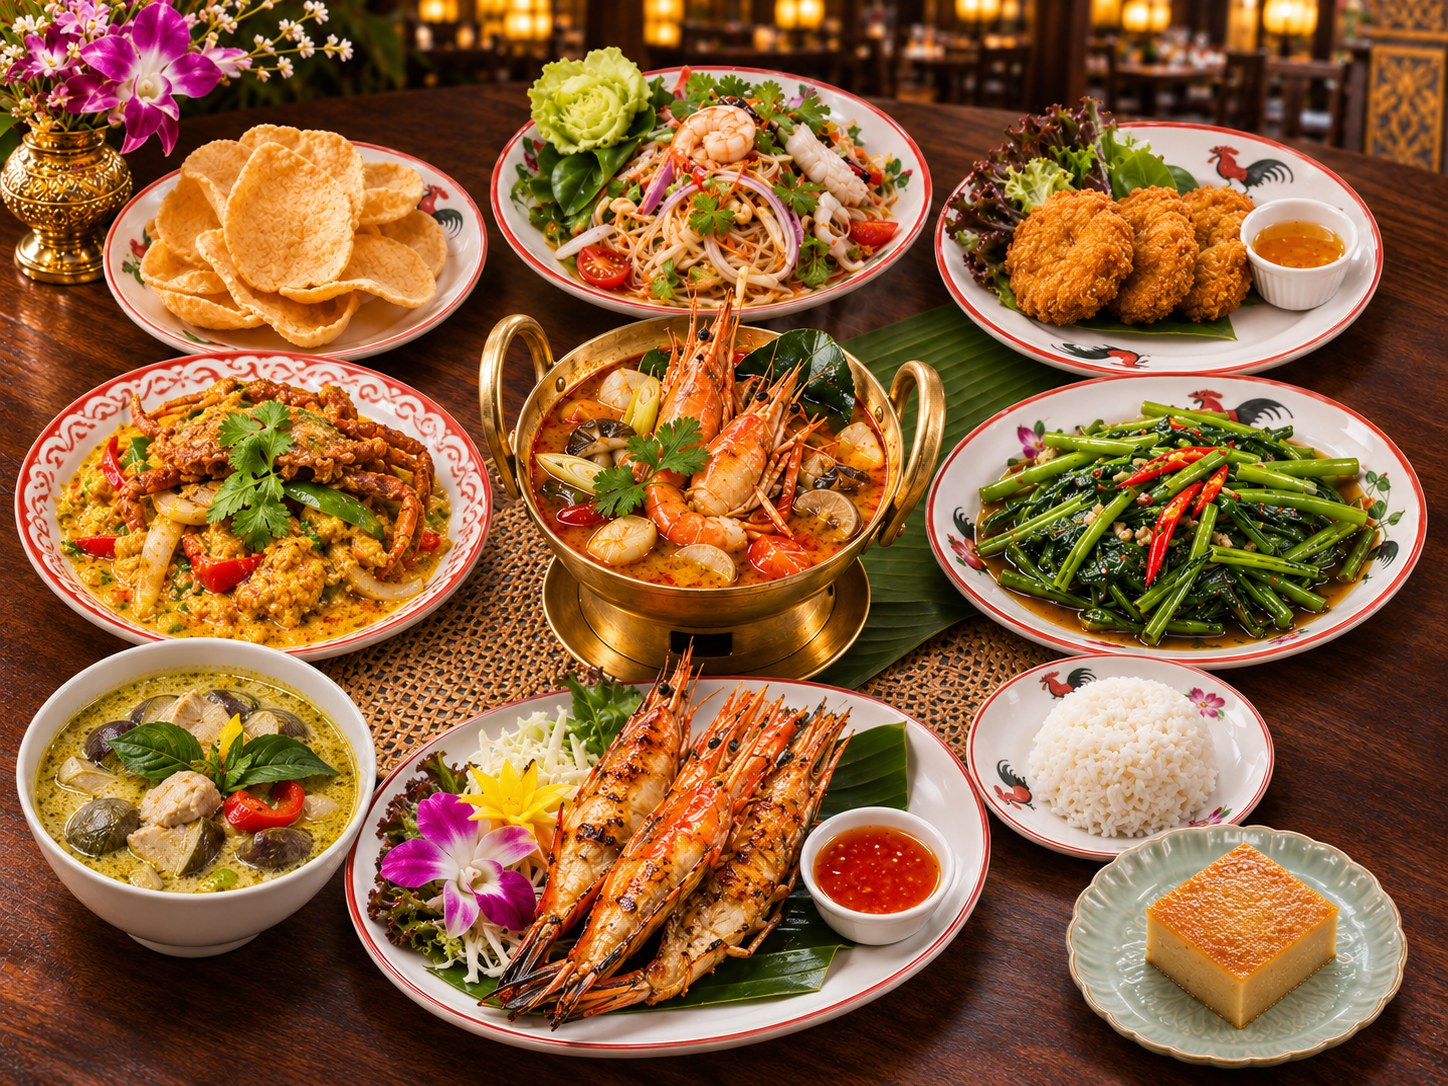
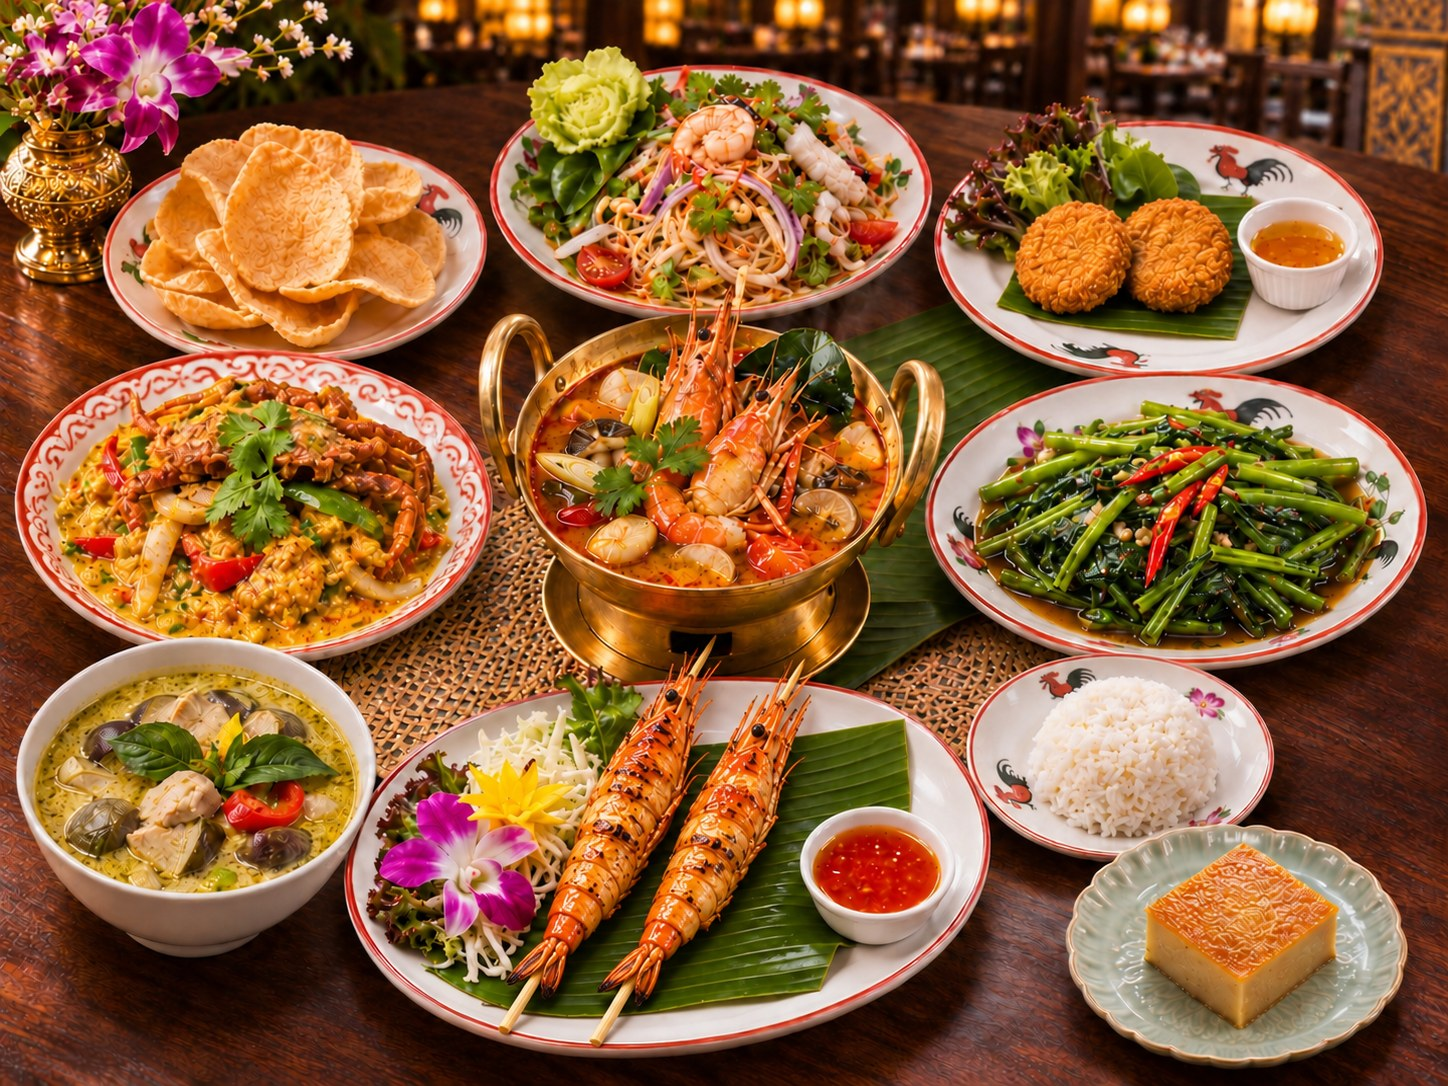
Add files via upload

diff --git a/data/menu.ts b/data/menu.ts
@@ -3,7 +3,6 @@ import type { MenuCategoryId, MenuItem } from "@/types/menu";
 // Category order controls the order tabs/sections render in on the Menu page.
 export const menuCategories: { id: MenuCategoryId; nameJP: string; nameTH: string }[] = [
   { id: "lunch", nameJP: "ランチ（月〜金）", nameTH: "lunch (จันทร์-ศุกร์)" },
-  { id: "courses", nameJP: "コース", nameTH: "คอร์ส" },
   { id: "friedSnacks", nameJP: "揚げ物・おつまみ", nameTH: "ของทอด/ของกินเล่น" },
   { id: "salads", nameJP: "サラダ", nameTH: "สลัด" },
   { id: "soup", nameJP: "スープ", nameTH: "ซุป" },
@@ -14,6 +13,7 @@ export const menuCategories: { id: MenuCategoryId; nameJP: string; nameTH: strin
   { id: "desserts", nameJP: "デザート", nameTH: "ขนมหวาน" },
   { id: "streetFoodSet", nameJP: "タイ屋台フードセット", nameTH: "เซ็ตสตรีทฟู้ด" },
   { id: "kidsSet", nameJP: "お子様セット", nameTH: "เมนูเด็ก" },
+  { id: "courses", nameJP: "コース", nameTH: "คอร์ส" },
 ];
 
 /**
@@ -241,7 +241,7 @@ export const menuItems: MenuItem[] = [
     category: "friedSnacks",
     spicyLevel: 0,
     available: true,
-    badge: "NEW",
+
   },
   {
     id: "fried-wonton-egg",
@@ -253,7 +253,7 @@ export const menuItems: MenuItem[] = [
     category: "friedSnacks",
     spicyLevel: 0,
     available: true,
-    badge: "NEW",
+
   },
 
   // ---------------------------------------------------------------------
@@ -1475,7 +1475,7 @@ export const menuItems: MenuItem[] = [
     category: "streetFoodSet",
     spicyLevel: 0,
     available: true,
-    badge: "NEW",
+
   },
   {
     id: "kids-set",
@@ -1528,15 +1528,15 @@ export const menuItems: MenuItem[] = [
     "category": "courses",
     "spicyLevel": 1,
     "available": true,
-    "badge": "NEW"
+
   },
   {
     "id": "course-boathong-special",
     "nameJP": "W2 ボアトウンスペシャルコース（全10品）",
     "nameTH": "W2 คอร์สพิเศษบัวทอง (10 อย่าง)",
     "description": {
-      "jp": "海鮮料理を贅沢に味わう全10品。大海老のグリル、ソフトシェルクラブのカレー炒め、海老のすり身揚げ、鶏肉のグリーンカレーを楽しめる特別なコースです。",
-      "th": "คอร์สพิเศษ 10 อย่างสำหรับมื้อสังสรรค์ จัดเต็มด้วยกุ้งแม่น้ำเผา ปูนิ่มผัดผงกะหรี่ ทอดมันกุ้ง ต้มยำกุ้ง และแกงเขียวหวานไก่ เสิร์ฟพร้อมข้าวหอมมะลิและขนมไทย"
+      "jp": "海鮮料理を贅沢に味わう全10品。大海老の串焼き、ソフトシェルクラブのカレー炒め、海老のすり身揚げ、鶏肉のグリーンカレーを楽しめる特別なコースです。",
+      "th": "คอร์สพิเศษ 10 อย่างสำหรับมื้อสังสรรค์ จัดเต็มด้วยกุ้งแม่น้ำเผาเสียบไม้ ปูนิ่มผัดผงกะหรี่ ทอดมันกุ้ง ต้มยำกุ้ง และแกงเขียวหวานไก่ เสิร์ฟพร้อมข้าวหอมมะลิและขนมไทย"
     },
     "courseDishes": {
       "jp": [
@@ -1544,7 +1544,7 @@ export const menuItems: MenuItem[] = [
         "海鮮ヤムウンセン",
         "海老のすり身揚げ",
         "トムヤムクン",
-        "大海老のグリル",
+        "大海老の串焼き",
         "空心菜のタオチオ炒め",
         "ソフトシェルクラブのカレー炒め",
         "鶏肉となすのグリーンカレー",
@@ -1556,7 +1556,7 @@ export const menuItems: MenuItem[] = [
         "ยำวุ้นเส้นทะเล",
         "ทอดมันกุ้ง พร้อมน้ำจิ้ม",
         "ต้มยำกุ้ง",
-        "กุ้งแม่น้ำเผา",
+        "กุ้งแม่น้ำเผาเสียบไม้",
         "ผัดผักบุ้งไฟแดง",
         "ปูนิ่มผัดผงกะหรี่",
         "แกงเขียวหวานไก่",
@@ -1569,7 +1569,7 @@ export const menuItems: MenuItem[] = [
     "category": "courses",
     "spicyLevel": 1,
     "available": true,
-    "badge": "NEW"
+
   },
 ];
 

diff --git a/components/FoodCarousel.tsx b/components/FoodCarousel.tsx
@@ -11,7 +11,6 @@ const SWIPE_THRESHOLD = 40;
 const tagStyles: Record<string, string> = {
   おすすめ: "bg-gold text-charcoal",
   人気: "bg-lacquer text-cream",
-  NEW: "border border-gold text-gold",
 };
 
 function mod(n: number, m: number) {
@@ -126,11 +125,13 @@ export function FoodCarousel() {
                     }`}
                   />
                   <div className="absolute inset-0 bg-gradient-to-t from-charcoal via-charcoal/10 to-transparent" />
+                  {food.tag && (
                   <span
                     className={`absolute left-3 top-3 rounded-sm px-2.5 py-1 text-[11px] font-medium tracking-signage ${tagStyles[food.tag]}`}
                   >
                     {food.tag}
                   </span>
+                  )}
                 </div>
 
                 <div

diff --git a/types/menu.ts b/types/menu.ts
@@ -17,7 +17,7 @@ export type MenuCategoryId =
 
 export type SpicyLevel = 0 | 1 | 2 | 3;
 
-export type MenuBadge = "おすすめ" | "人気" | "NEW";
+export type MenuBadge = "おすすめ" | "人気";
 
 export interface MenuItem {
   id: string;
@@ -34,7 +34,7 @@ export interface MenuItem {
   category: MenuCategoryId;
   spicyLevel: SpicyLevel;
   available: boolean;
-  badge?: MenuBadge; // optional おすすめ/人気/NEW ribbon, as shown on the printed menu
+  badge?: MenuBadge; // optional おすすめ/人気 ribbon, as shown on the printed menu
 }
 
 // --- Forward-looking types for the future QR order / kitchen system. ---

diff --git a/data/featuredFoods.ts b/data/featuredFoods.ts
@@ -6,7 +6,7 @@ export interface FeaturedFood {
   category: string;
   price: string; // pre-formatted, e.g. "¥1,200"
   image: string;
-  tag: "おすすめ" | "人気" | "NEW";
+  tag?: "おすすめ" | "人気";
 }
 
 // Share image paths with the full menu when the featured dish matches a menu item.
@@ -49,6 +49,5 @@ export const featuredFoods: FeaturedFood[] = [
     category: "本格タイ料理",
     price: "¥1,628",
     image: "/images/menu/khao-soi.jpg",
-    tag: "NEW",
   },
 ];

diff --git a/components/PromotionCarousel.tsx b/components/PromotionCarousel.tsx
@@ -124,9 +124,9 @@ export function PromotionCarousel() {
   return (
     <section className="bg-charcoal-soft/88 backdrop-blur-sm py-24 sm:py-32">
       <div className="container-page">
-        <p className="eyebrow mb-2">PROMOTION</p>
+        <p className="eyebrow mb-2">PROMOTION / NEW</p>
         <h2 className="font-display text-4xl font-medium text-cream sm:text-5xl">
-          プロモーション
+          プロモーション・新着情報
         </h2>
       </div>
 

diff --git a/components/MenuCard.tsx b/components/MenuCard.tsx
@@ -24,7 +24,6 @@ function SpiceLevel({ level, label }: { level: number; label: string }) {
 const badgeStyles: Record<string, string> = {
   おすすめ: "bg-gold text-charcoal",
   人気: "bg-lacquer text-cream",
-  NEW: "border border-gold text-gold bg-charcoal/80",
 };
 
 export function MenuCard({ item }: { item: MenuItem }) {
